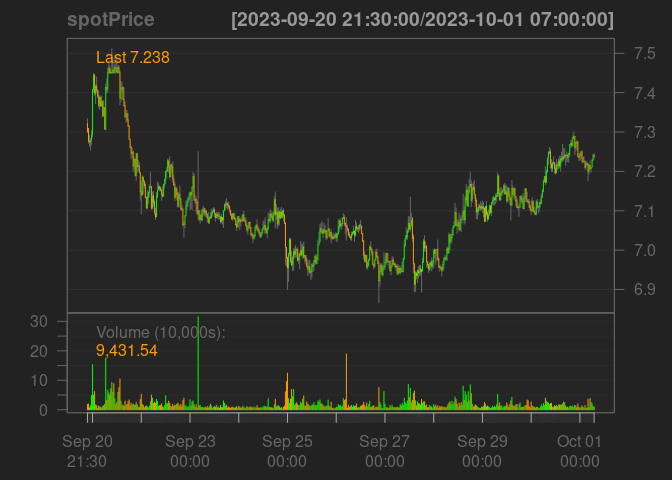
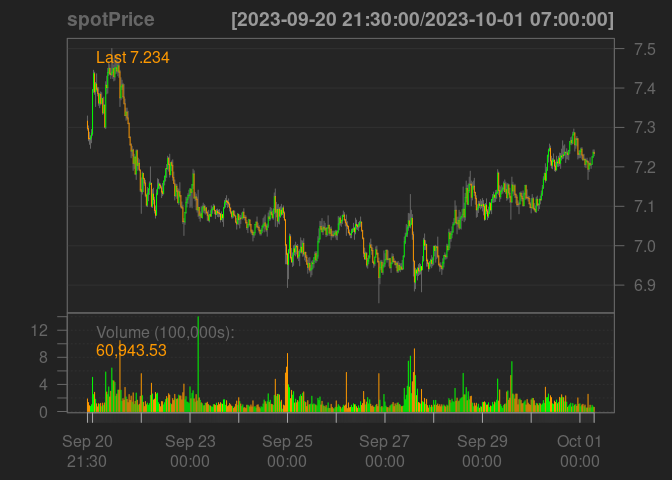
Updated README

diff --git a/README.md b/README.md
@@ -37,11 +37,11 @@ devtools::install_github(
 To get the latest prices on a desired cryptocurrency pair,
 
 ``` r
-## get spotprice on USDT denominated ATOM
+## get perpetual contracts on USDT denominated ATOM
 spotPrice <- cryptoQuotes::getQuote(
   ticker = 'ATOMUSDT',
   source = 'binance',
-  futures = FALSE,
+  futures = TRUE,
   interval = '30m'
 )
 #> Registered S3 method overwritten by 'quantmod':
